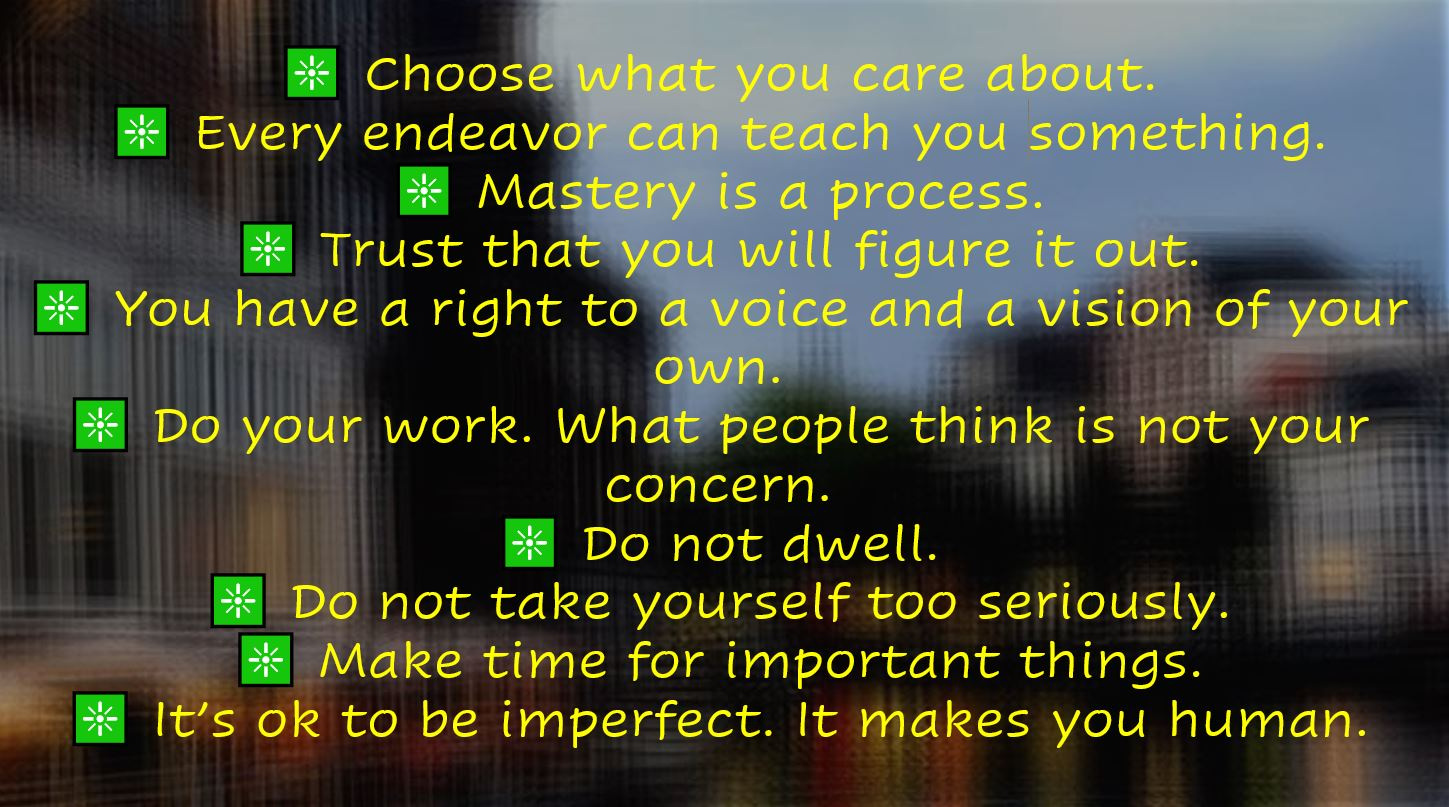
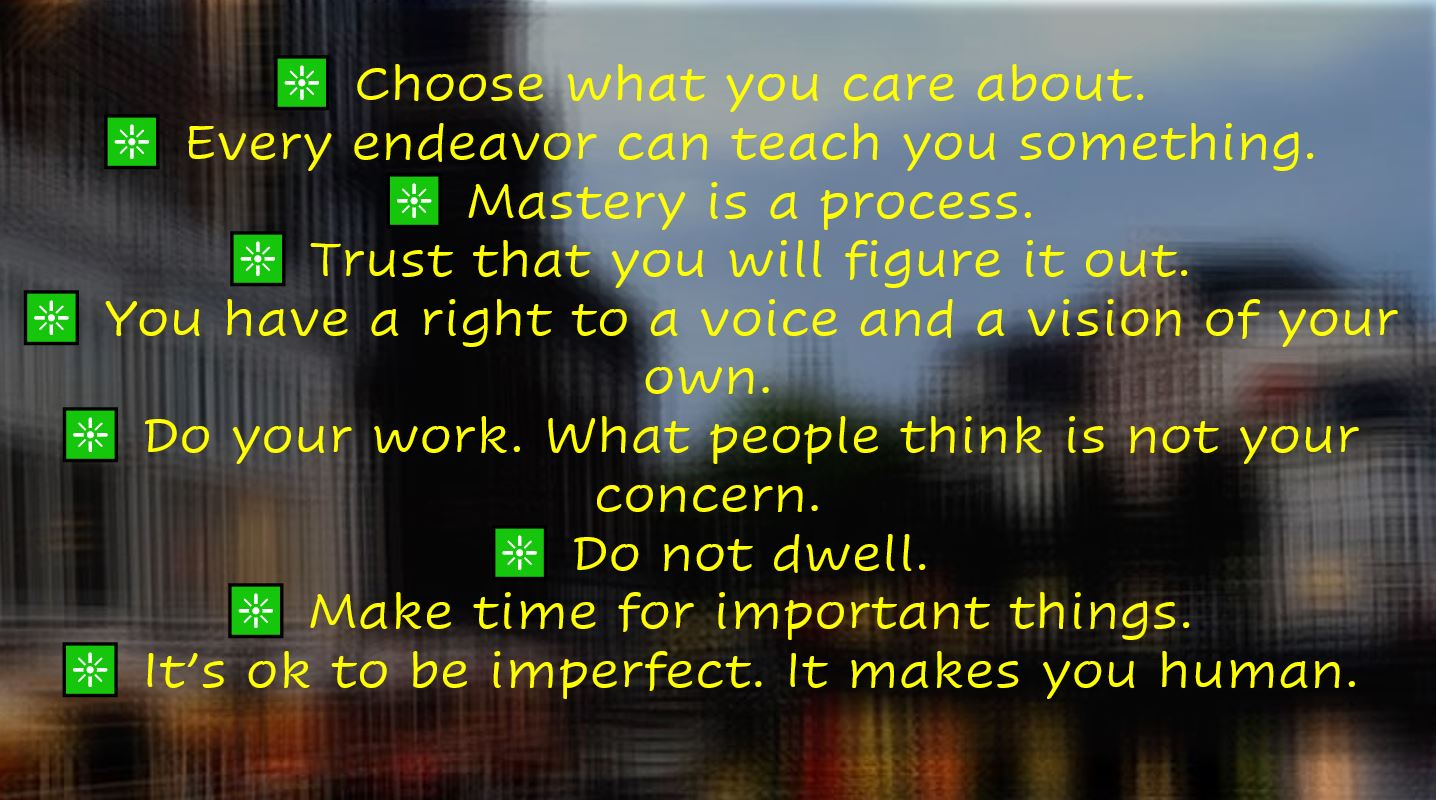
making headings upper case

diff --git a/posts/reminders.html b/posts/reminders.html
@@ -238,25 +238,6 @@ thing:    <strong>you don't need to do everything you're doing today. </strong>I
 </p>
 <br/>
 <h4>
-    Do not take yourself TOO seriously.
-</h4>
-<p>
-    A lot of us aim for greatness and mattering a lot to a lot of people - in the present and the future. 
-    Making an impact, leaving 
-    a legacy, being remembered as worthy, you name it. We think that everything we do should be fabulous and great because 
-    everything we do will be remembered. In aiming for such gravity and immortality, 
-    we get so immobilized 
-    that we don't start things now or finish things that matter to a few people today. 
-
-    But remembering the lightness of our lives and 
-    the impermanence of things can help you break that paralysis and enjoy 
-    what you do. If most things in this world are temporary, perhaps you can write your 
-    silly poem and publish it too? Perhaps you can get on that stage and say a few 
-    words no matter how little prepared you are? Perhaps you can be goofy and have 
-    a bit of fun?
-</p>
-<br/>
-<h4>
     It's ok to be imperfect. It makes you human.
 </h4>
 
